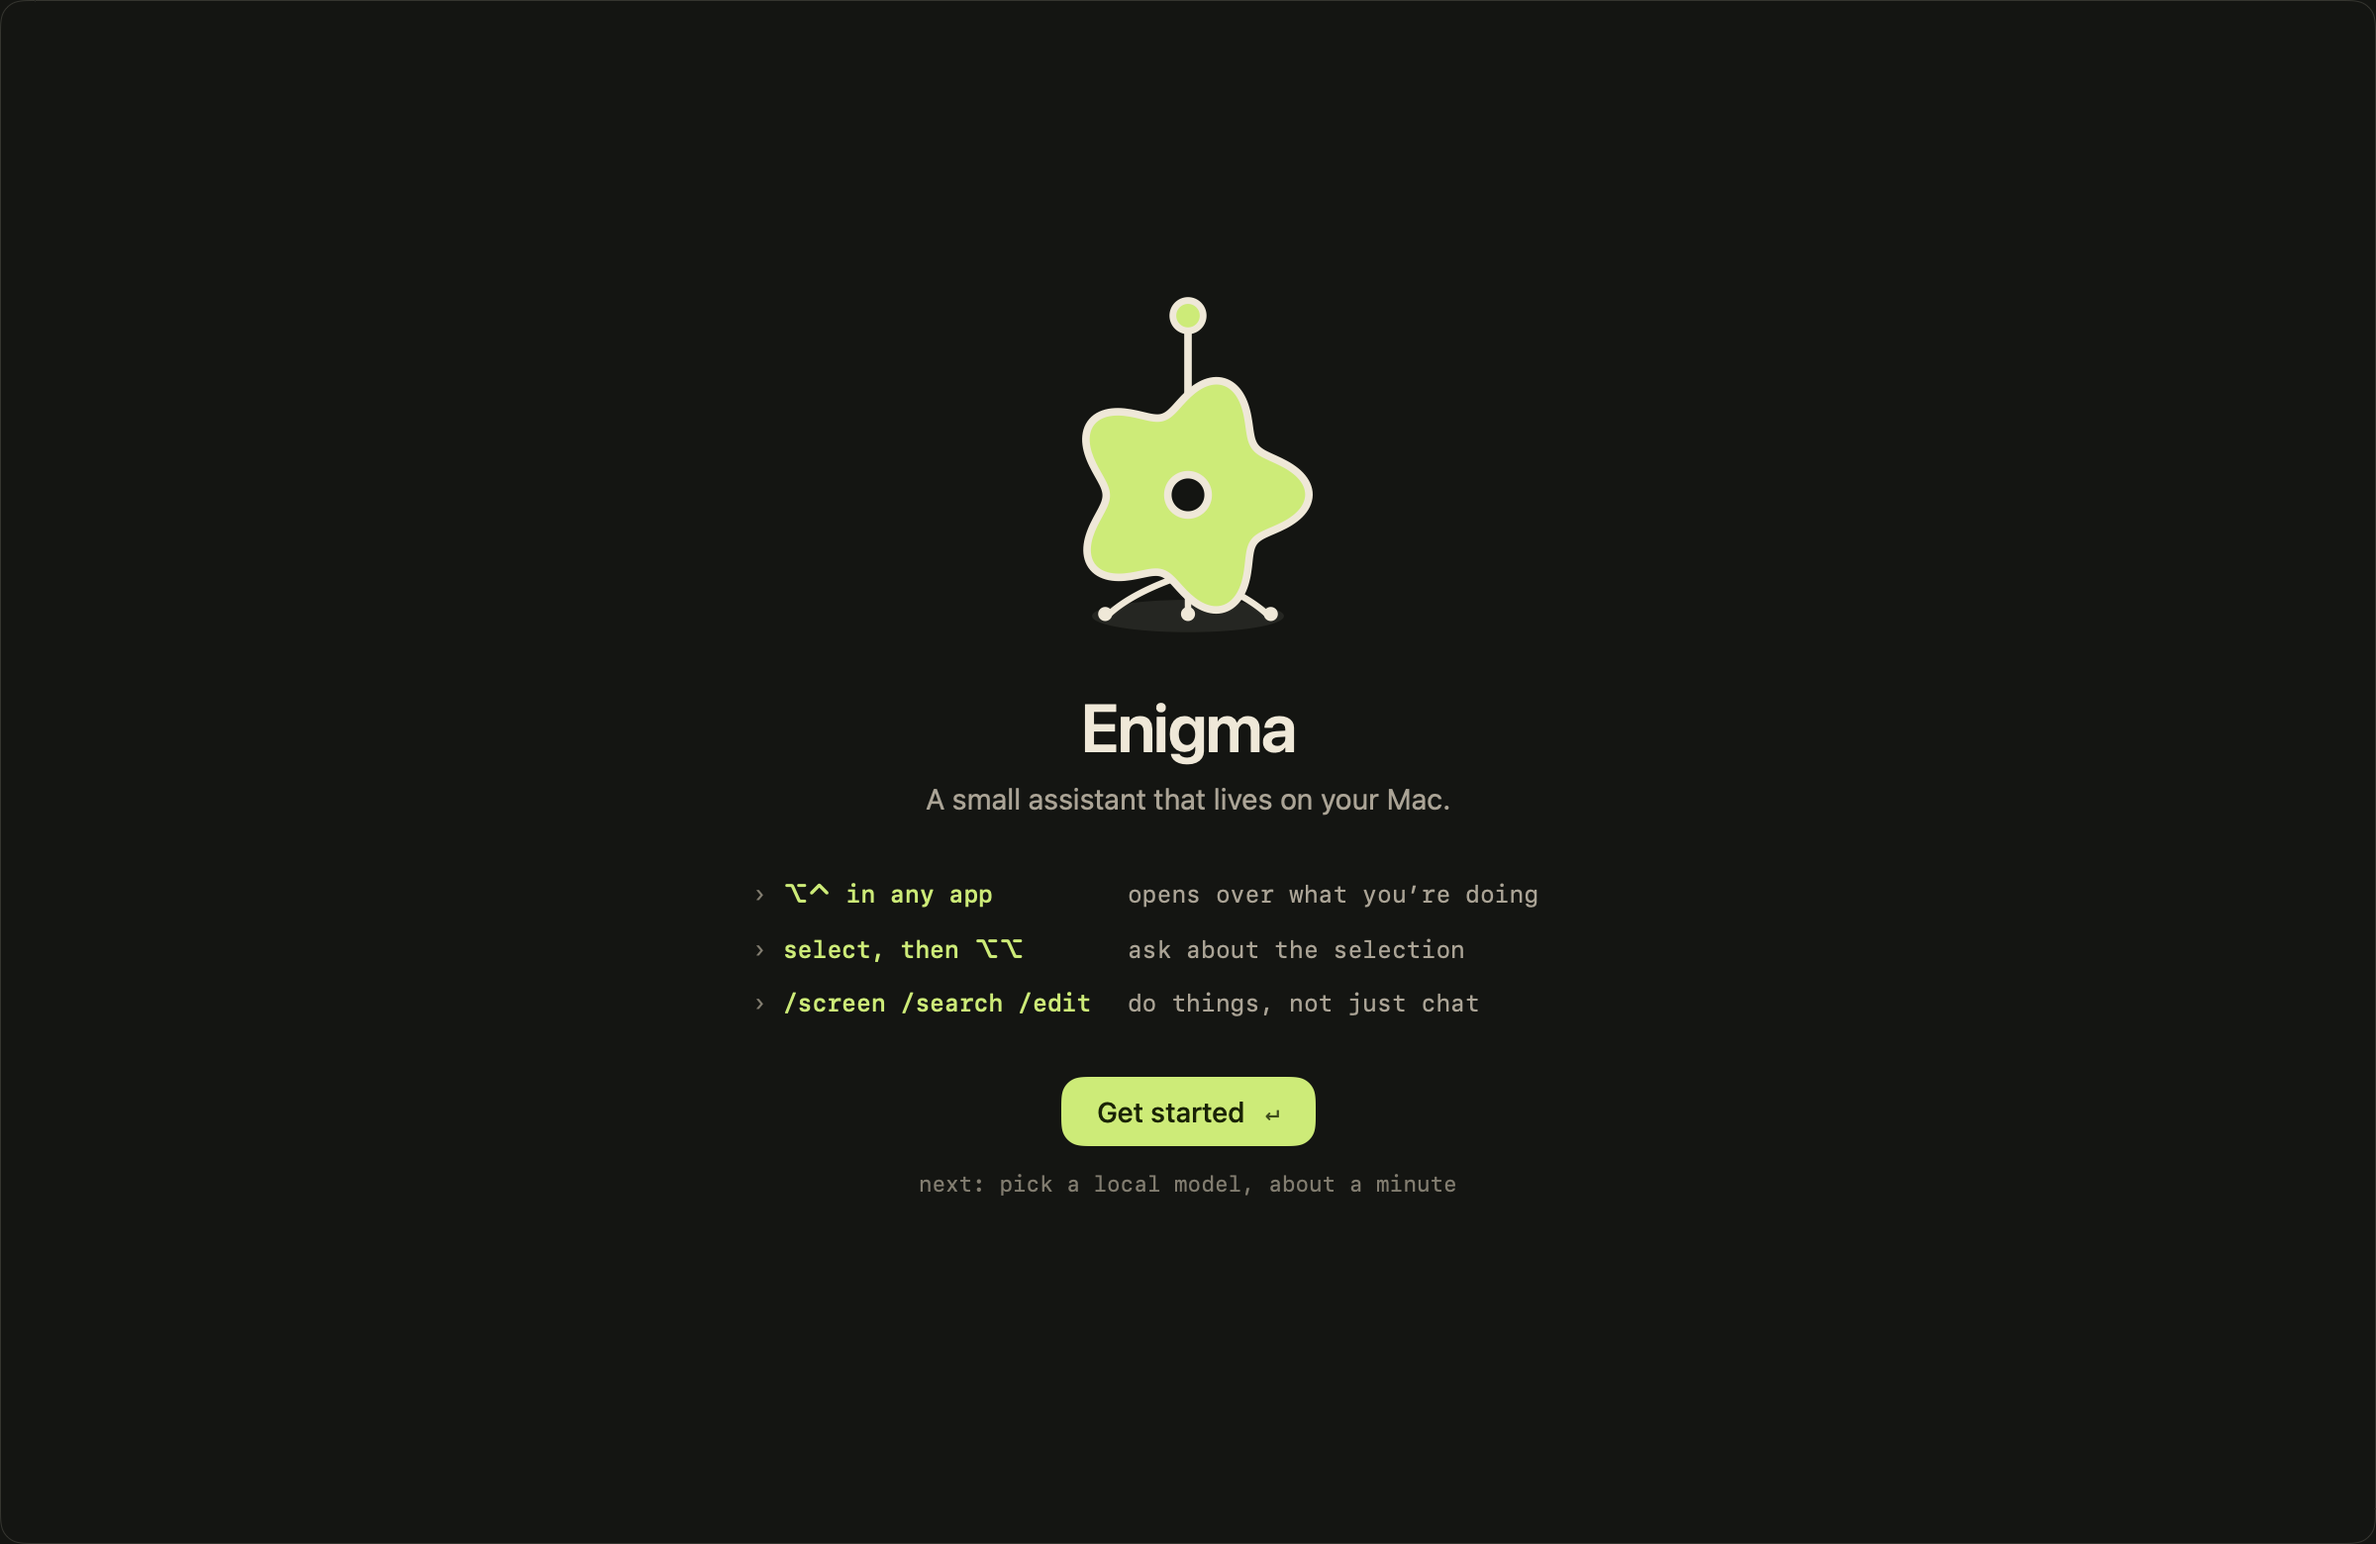
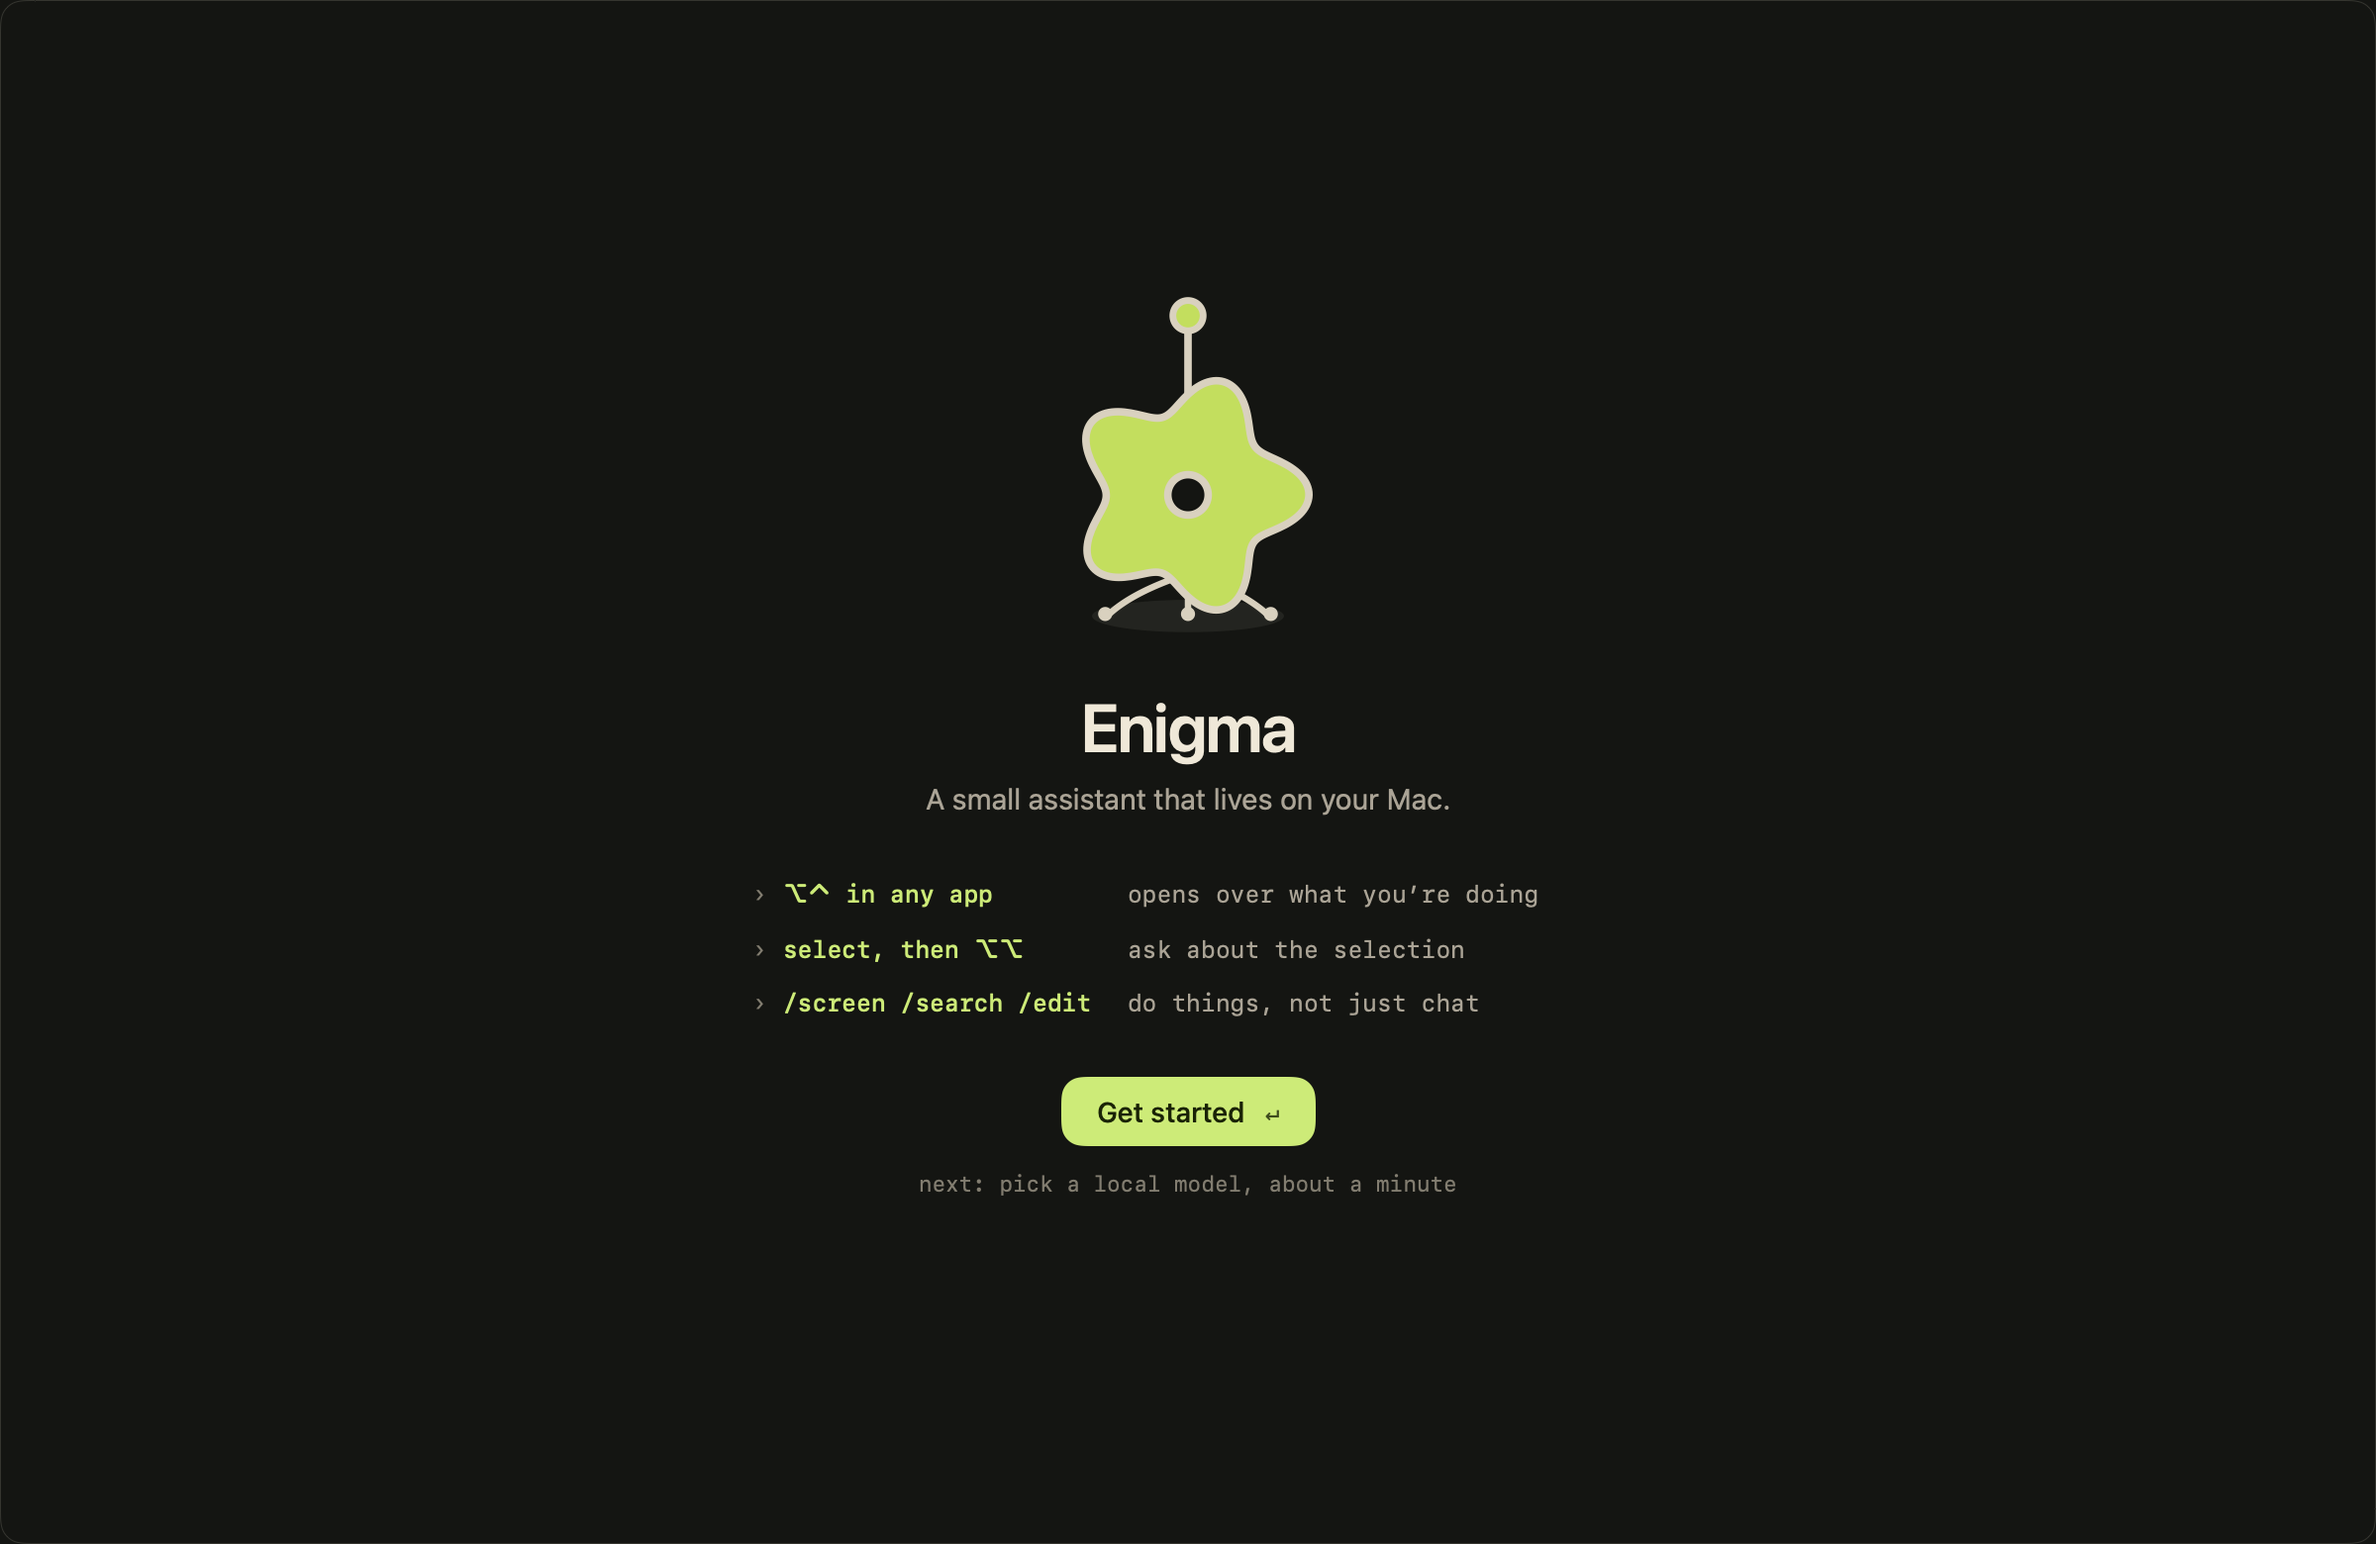
Soften the character's colors in Ink
Use the Paper body green in Ink too, and draw the outline, legs, and
antenna in a warm off-white instead of near-white, so the character is
easier on the eyes in dark mode. Refresh the Ink screenshots.

Changed region(s): [[0.4375, 0.2462, 0.5625, 0.4], [0.4688, 0.1846, 0.5312, 0.2154]]

diff --git a/AI-SpotlightTests/EnigmaThemeTests.swift b/AI-SpotlightTests/EnigmaThemeTests.swift
@@ -30,8 +30,8 @@ final class EnigmaThemeTests: XCTestCase {
       (\.accent, EnigmaColor(hex: 0x3F5A12), EnigmaColor(hex: 0xCDEB78)),
       (\.onAccent, EnigmaColor(hex: 0xF5F8EA), EnigmaColor(hex: 0x1A2306)),
       (\.accentText, EnigmaColor(hex: 0x4A6A14), EnigmaColor(hex: 0xCDEB78)),
-      (\.characterBody, EnigmaColor(hex: 0xC3DE5E), EnigmaColor(hex: 0xCDEB78)),
-      (\.characterInk, EnigmaColor(hex: 0x211E19), EnigmaColor(hex: 0xEFE8D8)),
+      (\.characterBody, EnigmaColor(hex: 0xC3DE5E), EnigmaColor(hex: 0xC3DE5E)),
+      (\.characterInk, EnigmaColor(hex: 0x211E19), EnigmaColor(hex: 0xD9D1BF)),
       (\.warning, EnigmaColor(hex: 0xE0A33B), EnigmaColor(hex: 0xE0A33B)),
     ]
     XCTAssertEqual(expected.count, 17)

diff --git a/AI-Spotlight/App/EnigmaTheme.swift b/AI-Spotlight/App/EnigmaTheme.swift
@@ -111,8 +111,8 @@ struct EnigmaPalette: Equatable, Sendable {
     accent: EnigmaColor(hex: 0xCDEB78),
     onAccent: EnigmaColor(hex: 0x1A2306),
     accentText: EnigmaColor(hex: 0xCDEB78),
-    characterBody: EnigmaColor(hex: 0xCDEB78),
-    characterInk: EnigmaColor(hex: 0xEFE8D8),
+    characterBody: EnigmaColor(hex: 0xC3DE5E),
+    characterInk: EnigmaColor(hex: 0xD9D1BF),
     warning: EnigmaColor(hex: 0xE0A33B)
   )
 }

diff --git a/docs/design/ui-revamp/README.md b/docs/design/ui-revamp/README.md
@@ -53,8 +53,8 @@ the given opacity.
 | `accent` | `#3F5A12` | `#CDEB78` | Send button, primary buttons, switches |
 | `onAccent` | `#F5F8EA` | `#1A2306` | Text and icons on `accent` |
 | `accentText` | `#4A6A14` | `#CDEB78` | Command names, selection dots, links |
-| `characterBody` | `#C3DE5E` | `#CDEB78` | Character fill |
-| `characterInk` | `#211E19` | `#EFE8D8` | Character outline, legs, antenna |
+| `characterBody` | `#C3DE5E` | `#C3DE5E` | Character fill |
+| `characterInk` | `#211E19` | `#D9D1BF` | Character outline, legs, antenna |
 | `warning` | `#E0A33B` | `#E0A33B` | The character's error state |
 
 `textTertiary` reaches 3:1 on every surface, which is enough for text a

diff --git a/UI-Style.md b/UI-Style.md
@@ -47,8 +47,8 @@ the given opacity.
 | `accent` | `#3F5A12` | `#CDEB78` | Send, primary buttons, switches |
 | `onAccent` | `#F5F8EA` | `#1A2306` | Text and icons on `accent` |
 | `accentText` | `#4A6A14` | `#CDEB78` | Command names, selection dots, links |
-| `characterBody` | `#C3DE5E` | `#CDEB78` | Character fill |
-| `characterInk` | `#211E19` | `#EFE8D8` | Character outline, legs, antenna |
+| `characterBody` | `#C3DE5E` | `#C3DE5E` | Character fill |
+| `characterInk` | `#211E19` | `#D9D1BF` | Character outline, legs, antenna |
 | `warning` | `#E0A33B` | `#E0A33B` | The character's error state |
 
 Rules:
